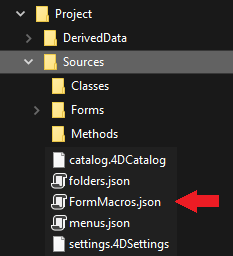
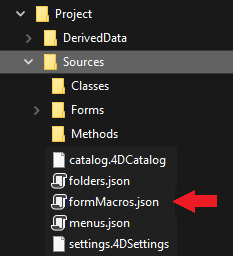
final after closure

diff --git a/docs/FormEditor/macros.md b/docs/FormEditor/macros.md
@@ -15,17 +15,17 @@ For example if you have a recurring report with specific formatting (e.g., certa
 *	Add / delete / modify forms, form objects as well as their properties
 *	Modify project files (update, delete)
 
-Macros can been defined for the host project or for components within the project.
-
 Macros code supports [class functions](Concepts/classes.md) and [form object properties in JSON](FormObjects/properties_Reference.md) to let you define any custom feature in the Form editor. 
 
-When called, a macro overrides any previously specified behaviors, including when the form is executed (e.g. entry order).
+Macros can been defined for the host project or for components within the project. Usually, you will create a macro and install it within the components you use for development. 
+
+When called, a macro overrides any previously specified behaviors.
 
 ## Hands-on example
 
-In this very short example, you'll see how to create and call a macro that adds a "Hello World!" alert button in the top left corner of your form. 
+In this short example, you'll see how to create and call a macro that adds a "Hello World!" alert button in the top left corner of your form. 
 
-1. In the `FormMacros.json` file within the `Project/Sources` folder, you write:
+1. In a `formMacros.json` file within the `Sources` folder of your project, you write:
 
 ```
 {
@@ -78,14 +78,16 @@ When macros are defined in your 4D project, you can call a macro using the conte
 
 ![](assets/en/FormEditor/macroSelect.png)
 
-This menu is built upon the `FormMacros.json` [macro definition file(s)](#location-of-macros), in the order they are defined in the file. It contains:
+This menu is built upon the `formMacros.json` [macro definition file(s)](#location-of-macros). Macros items are sorted in the order macro objects are defined in the file. 
 
-1. host application macros
+When macros exist at both the project and component levels, the following order is applied: 
+
+1. project macros
 2. component macros
 
 This menu can be called in an empty area or a selection in the form. Selected object are passed to `$editor.currentSelection` or `$editor.target` in the [`onInvoke`](#oninvoke) function of the macro. 
 
-Several macros can be sequentially called. The standard **Undo** feature of the Form editor can be used to reverse macro operations. 
+A single macro can execute several operations. If selected, the **Undo** feature of the Form editor can be used to reverse macro operations globally. 
 
 ## Location of macro file
 
@@ -99,14 +101,14 @@ This file must be located in the host or component's **Project** > **Sources** f
 
 ## Declaring macros
 
-The structure of the `FormMacros.json` file is the following:
+The structure of the `formMacros.json` file is the following:
 
-```
+```js
 {
     "macros": {
-            "macroName": {
-                "class": "className" 
-                "myParam": "Hello"
+            <macroName>: {
+                "class": <className>,
+                <customProperty> : <value>
         }
     }
 }
@@ -119,38 +121,38 @@ Here is the description of the JSON file contents:
 |macros|||object|list of defined macros|
 ||\<macroName>||object|macro definition|
 |||class|string|macro class name|
-|||\<customProperty>|any|custom value to retrieve in the constructor
+|||\<customProperty>|any|(optional) custom value to retrieve in the constructor
 
-Custom attributes can be added (named `myParam` in the above example). They will be passed to the [constructor](#class-constructor) function of the macro.
+Custom properties, when used, are passed to the [constructor](#class-constructor) function of the macro.
 
-### Example of FormMacros.json file 
+### Example 
 
-> The order of macros objects in the file defines the [**Macros** menu](#calling-macros-in-the-form-editor) organization in the Form editor.  
-
-```
+```js
 {
    "macros": {
-     "0- Open Macros file": {
+     "Open Macros file": {
        "class": "OpenMacro"
      },
-     "1- Align to Right on Target Object": {
+     "Align to Right on Target Object": {
        "class": "AlignOnTarget",
-       "type": "right"
+       "myParam": "right"
      },
-     "2- Align to Left on Target Object": {
+     "Align to Left on Target Object": {
        "class": "AlignOnTarget",
-       "type": "left"
+       "myParam": "left"
      }
    }
 }
 ```
+
+> Keep in mind that the order of macros objects in the file defines the [**Macros** menu](#calling-macros-in-the-form-editor) organization in the Form editor.  
 
 
 ## Instantiating macros in 4D
 
 Each macro you want to instantiate in your project or component must be declared as a [4D class](Concepts/classes.md). 
 
-The class name must match the name defined using the [class](#creating-macros) attribute of the `FormMacros.json` file. 
+The class name must match the name defined using the [class](#creating-macros) attribute of the `formMacros.json` file. 
 
 Macros are instantiated at application startup. Consequently, if you modify the macro class structure (add a function, modify a parameter...) or the [constructor](#class-constructor), you will have to restart the application to apply the changes. 
 
@@ -159,7 +161,7 @@ Macros are instantiated at application startup. Consequently, if you modify the 
 
 ## Macro Functions
 
-Every macro class can contain a class constructor and two functions: `OnInvoke()` and `OnError()`.
+Every macro class can contain a `Class constructor` and two functions: `onInvoke()` and `onError()`.
 
 
 ### Class constructor
@@ -168,82 +170,83 @@ Every macro class can contain a class constructor and two functions: `OnInvoke()
 
 |Parameter|Type|Description|
 |---|---|---|
-|$macro|Object|Macro declaration object (in the `FormMacros.json` file)|
+|$macro|Object|Macro declaration object (in the `formMacros.json` file)|
 
 Macros are instantiated using a [class constructor](Concepts/classes.md#class-constructor) function, if it exists. 
 
-The class constructor is called once during class instantiation, which occurs at application startup. Consequently, any modification applied to this function would require that you restart the application. 
+The class constructor is called once during class instantiation, which occurs at application startup. 
 
-Custom attributes added to the [macro declaration](#declaring-macros) are returned in the parameter of the class contructor function.
+Custom properties added to the [macro declaration](#declaring-macros) are returned in the parameter of the class contructor function.
 
 
 #### Example
 
-In the `FormMacros.json` file:
+In the `formMacros.json` file:
 
-```
+```js
 {
-    "macros": {
-            "My macro": {
-                "class": "MyMacroClass" 
-                "myParam": "Hello"
-        }
-    }
+   "macros": {
+     "Align to Left on Target Object": {
+       "class": "AlignOnTarget",
+       "myParam": "left"
+     }
+   }
 }
 ```
 
 You can write: 
 
 ```code4d  
-// Class "MyMacroClass"
+// Class "AlignOnTarget"
 Class constructor($macro : Object)
-    This.myParameter:=$macro.myParam //Hello
+    This.myParameter:=$macro.myParam //left
     ...
 ```
 
 
 ### onInvoke()
 
-#### onInvoke($editor : object) -> result : object
+#### onInvoke($editor : object) -> $result : object
 
 |Parameter|Type|Description|
 |---|---|---|
-|$editor|Object|Form elements to be modified by the macro|
-|result|Object|Form elements modified by the macro|
+|$editor|Object|Form properties|
+|$result|Object|Form properties modified by the macro (optional)|
 
-The `onInvoke` function is automatically executed each time the macro is called.
+The `onInvoke` function is automatically executed each time the macro is called. 
 
-Properties of the `$editor` object:
+When the function is called, it receives all the elements of the form with their current values in the `$editor` parameter. You can then execute any operation on these properties. 
+
+Once operations are completed, if the macro results in modifying, adding, or removing objects, you can pass the resulting edited properties in `$result`. The macro processor will parse the returned properties and apply operations. Obviously, the less properties you return, the faster parsing will be. 
+
+All objects passed to macros through the `$result` parameter are copies. Modifications made by macros are saved in memory only. 
+
+Here are the properties of the `$editor` object:
 
 |Property|Type|Description|
 |---|---|---|
-|$editor.form|Object|The entire form - All modifications in this object are ignored.
+|$editor.form|Object|The entire form
 |$editor.file|File|File object of the form file|
 |$editor.name|String|Name of the form|
 |$editor.table|number|Table number of the form, 0 for project form|
 |$editor.currentPageNumber|number|The number of the current page|
-|$editor.currentPage|Object|The current page - All modifications in this object are applied to the form|
-|$editor.currentSelection|Collection|Collection of names of selected objects - If the list is modified, the selection in the form is changed according the list.|
-|$editor.formProperties|Object|Properties of the current form. All modifications in this object are applied to the form.|
+|$editor.currentPage|Object|The current page, containing all the form objects and the entry order of the page, including groups|
+|$editor.currentSelection|Collection|Collection of names of selected objects|
+|$editor.formProperties|Object|Properties of the current form|
 |$editor.target|string|Name of the object under the mouse when clicked on a macro|
 
-**Result**
+Here are the properties that you can pass in the `$result` object if you want the macro processor to execute a modification. All properties are optional:
 
 |Property|Type|Description|
 |---|---|---|
-|currentPage |Object |(optional) pass the currentPage is changed by macro|
-|currentSelection |Collection |(optional) pass the currentSelection is changed by macro|
-|formProperties |Object |(optional) pass the formProperties is changed by macro|
-|editor.groups |Object |(optional) pass the group info, if groups are changed by macro|
-|editor.views |Object |(optional) pass the view info, if views are changed by macro|
-|editor.activeView |String |(optional) Active view name|
+|currentPage |Object |currentPage including objects modified by the macro, if any|
+|currentSelection |Collection |currentSelection if modified by the macro|
+|formProperties |Object |formProperties if modified by the macro|
+|editor.groups |Object |group info, if groups are modified by the macro|
+|editor.views |Object |view info, if views are modified by the macro|
+|editor.activeView |String |Active view name|
 
 
-When the function is called, it receives all the properties with their current values in the `$editor` parameter. The function can do any operation on these properties. 
-
-Once operations are done, pass the modified or edited values in `Result`. For optimization, it is recommended to return only edited elements.  
-
-> All objects passed to macros through the `Result` parameter are copies. Any modifications made by macros are saved in memory only. 
 
 
 #### `method` attribute
@@ -260,6 +263,14 @@ source|String|method code|
 
 4D will create a file using the object name in the "objectMethods" folder with the content of `source` attribute. This feature is only available for macro code.  
 
+#### `$4dId` property in `currentPage` objects
+
+The `$4dId` property is a unique ID for all objects in the `currentPage` property. This key is used by the macro processor to control changes in `$result.currentPage`. 
+
+- if the `$4dId` key is missing in both the form and an object in `$result`, the object is created.
+- if the `$4dId` key exists in the form but is missing in `$result`, the object is deleted.
+- if the `$4dId` key exists in both the form and an object in `$result`, the object is modified.
+ 
 
 #### Example
 
